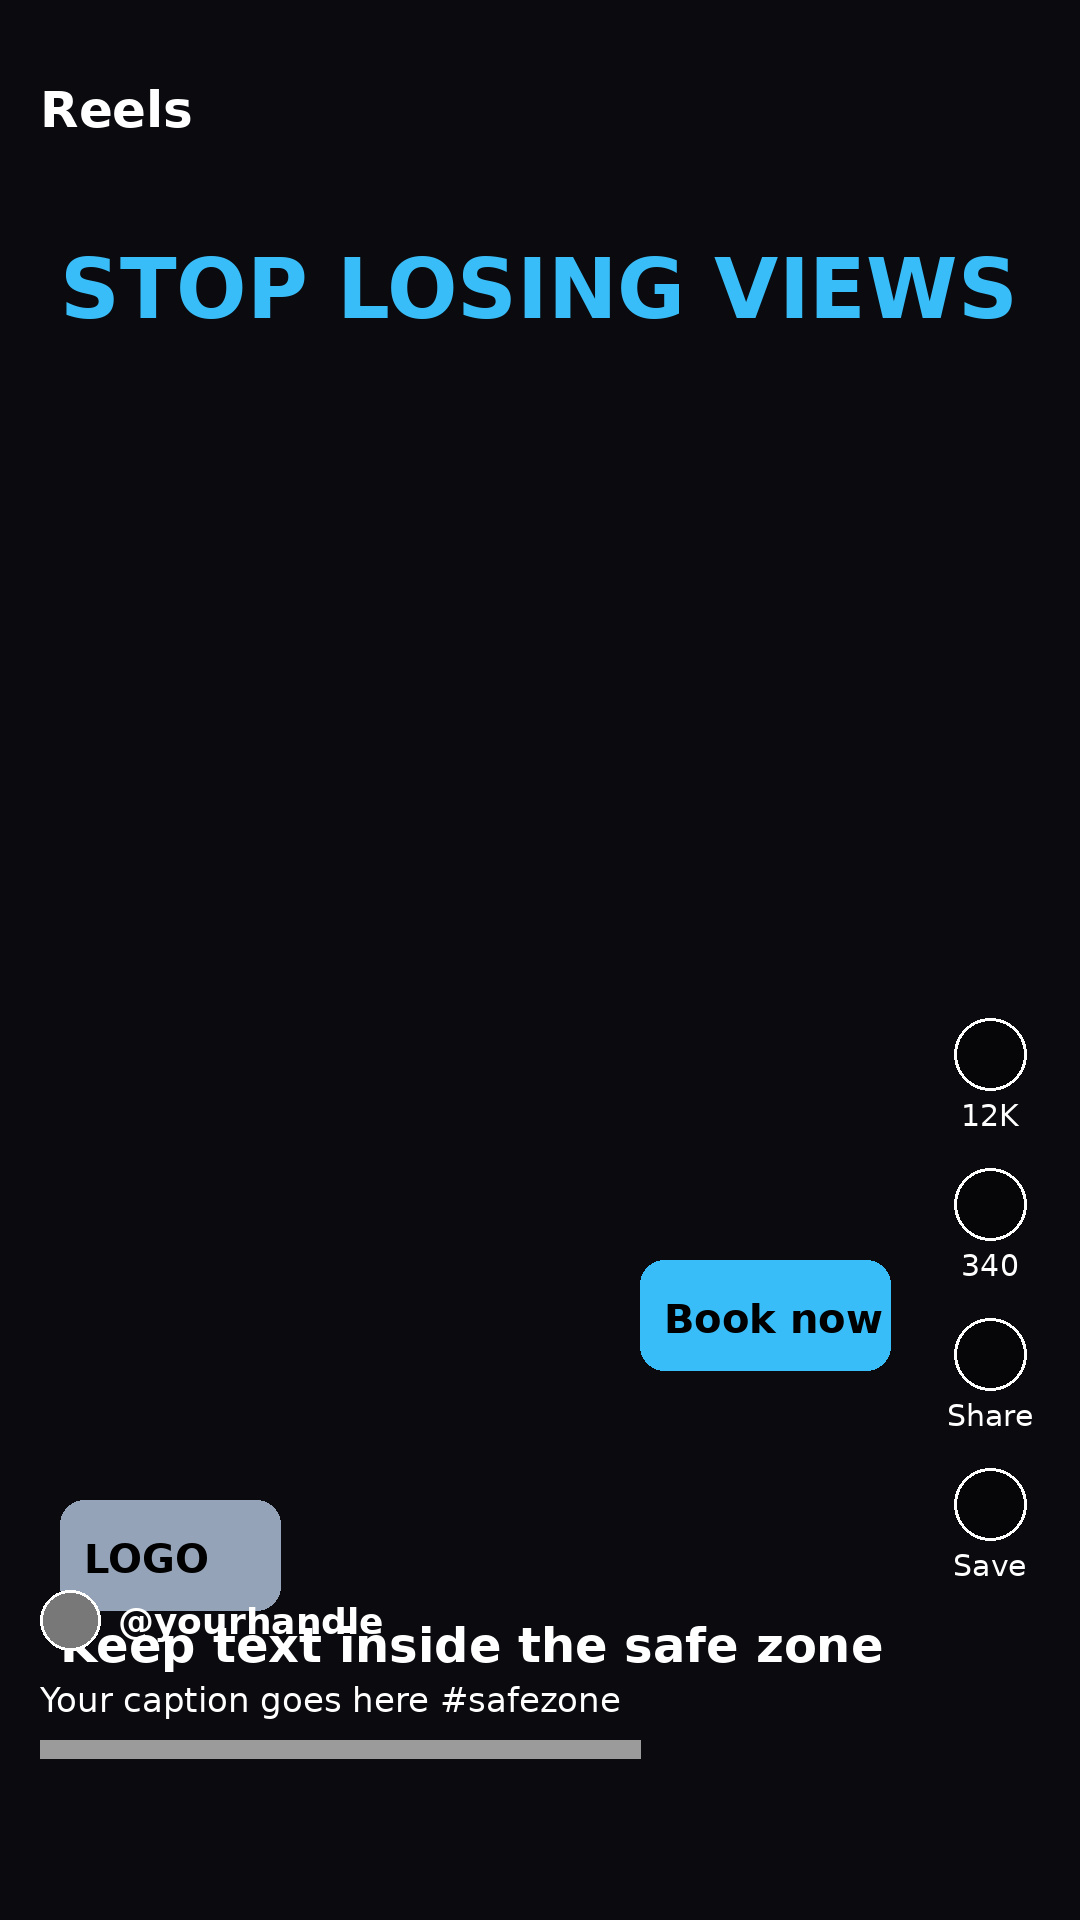
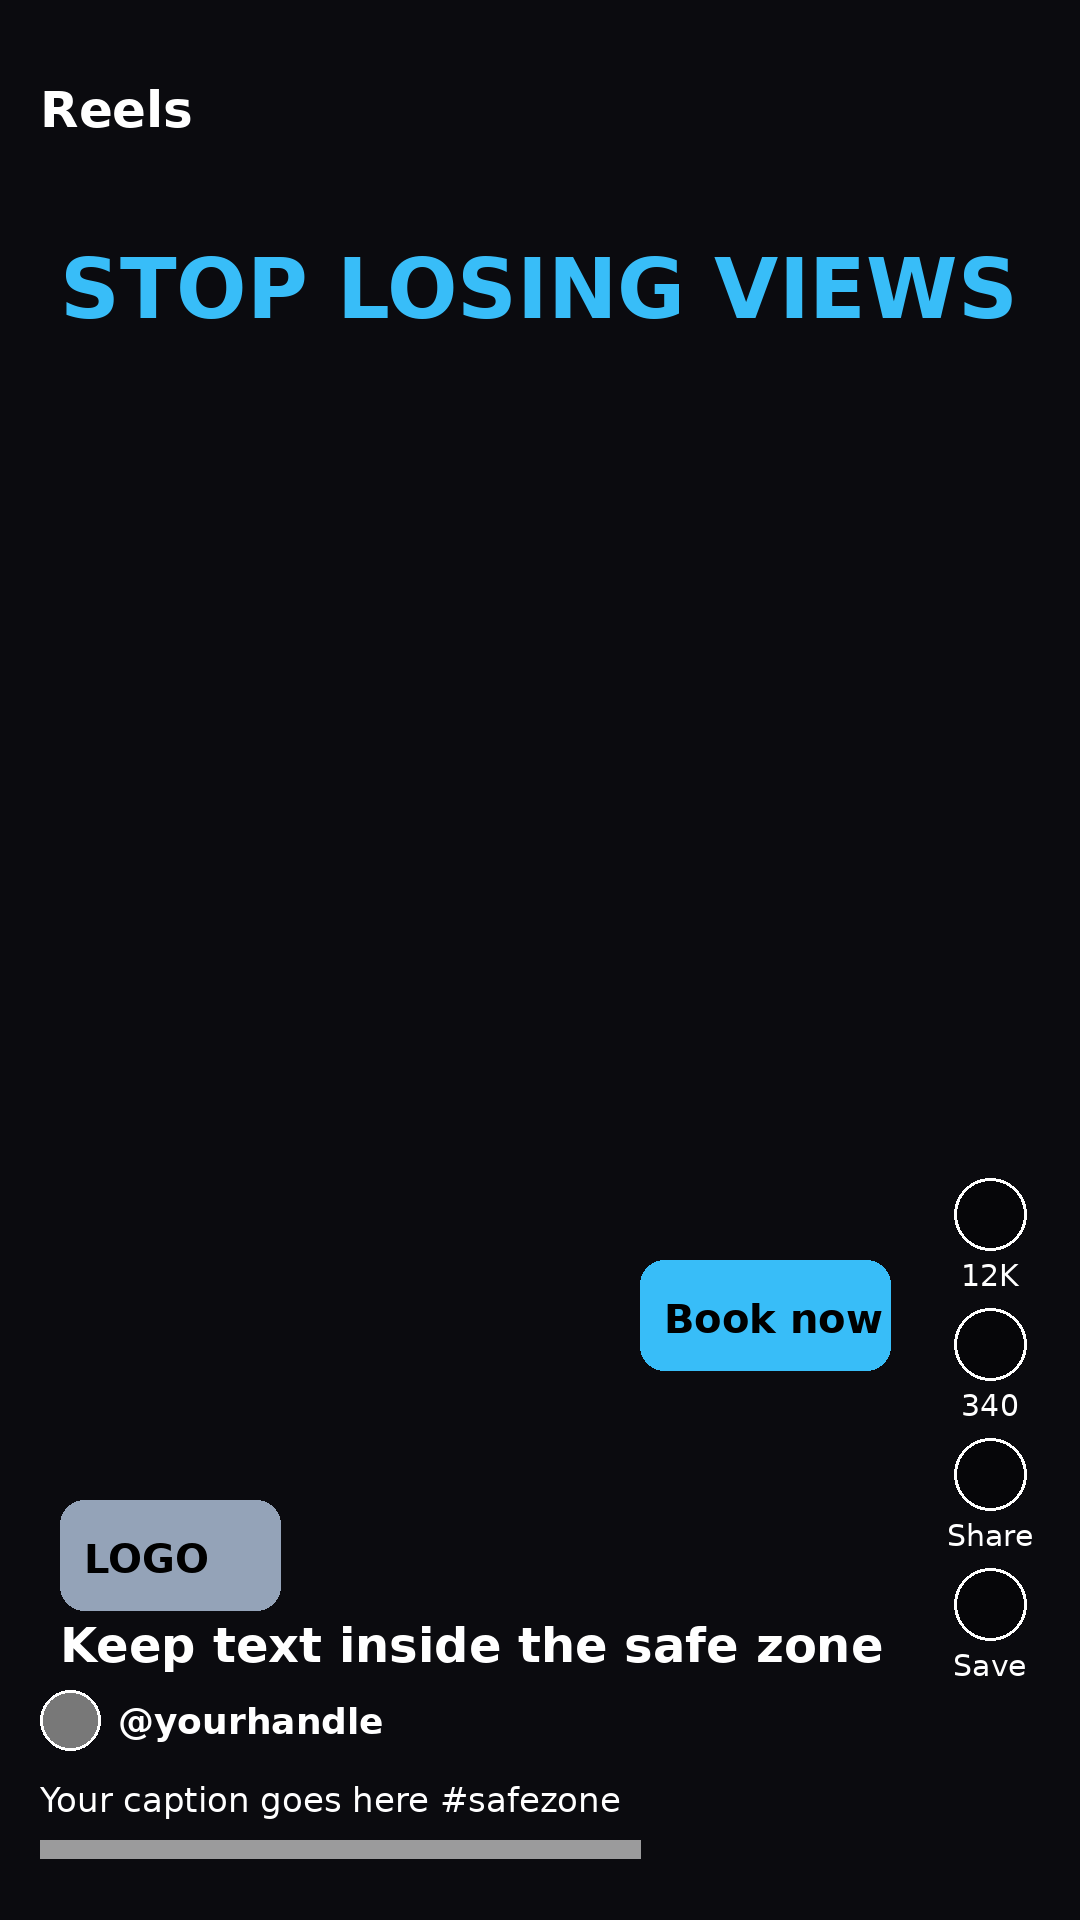
Add files via upload

Changed region(s): [[0.0306, 0.8125, 0.6111, 0.9688], [0.8861, 0.5625, 0.9472, 0.875]]

diff --git a/scripts/preview_mock.py b/scripts/preview_mock.py
@@ -11,14 +11,14 @@ from PIL import Image, ImageDraw
 WHITE, SOFT = (255, 255, 255, 255), (255, 255, 255, 150)
 
 
-def side_rail(d, p, labels, x_center, y_bottom):
+def side_rail(d, p, labels, x_center, y_bottom, step=150):
     f = Z.get_font(30, bold=False)
     y = y_bottom
     for lab in reversed(labels):
         d.ellipse((x_center - 36, y - 72, x_center + 36, y), fill=(0, 0, 0, 110), outline=WHITE, width=3)
         w = d.textlength(lab, font=f)
         d.text((x_center - w / 2, y + 8), lab, font=f, fill=WHITE)
-        y -= 150
+        y -= step
 
 
 def caption_block(d, p, user, caption, y):
@@ -44,8 +44,8 @@ def vertical_ui(img, p, a):
     else:
         title = {"reel": "Reels", "tiktok": "Following   For You"}.get(ui, "Shorts")
         d.text((40, 80), title, font=Z.get_font(50), fill=WHITE)
-        side_rail(d, p, ["12K", "340", "Share", "Save"][: 4], W - 90, H - 560 if ui != "reel" else H - 380)
-        caption_block(d, p, a.user, a.caption, H - 330 if ui == "reel" else H - 470)
+        side_rail(d, p, ["12K", "340", "Share", "Save"], W - 90, H - 560 if ui != "reel" else H - 280, 150 if ui != "reel" else 130)
+        caption_block(d, p, a.user, a.caption, H - 230 if ui == "reel" else H - 470)
     return Image.alpha_composite(img, layer)
 
 
